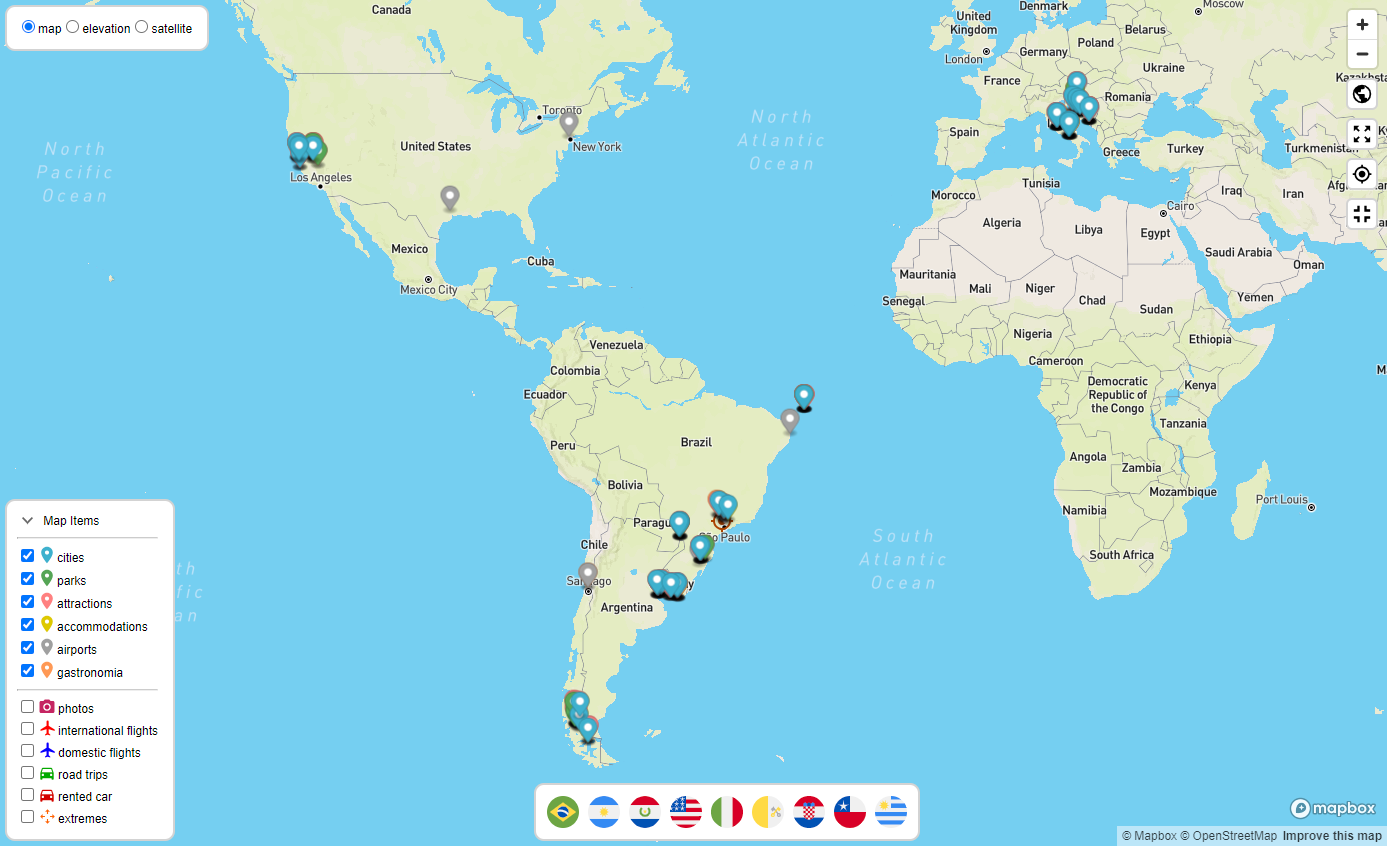
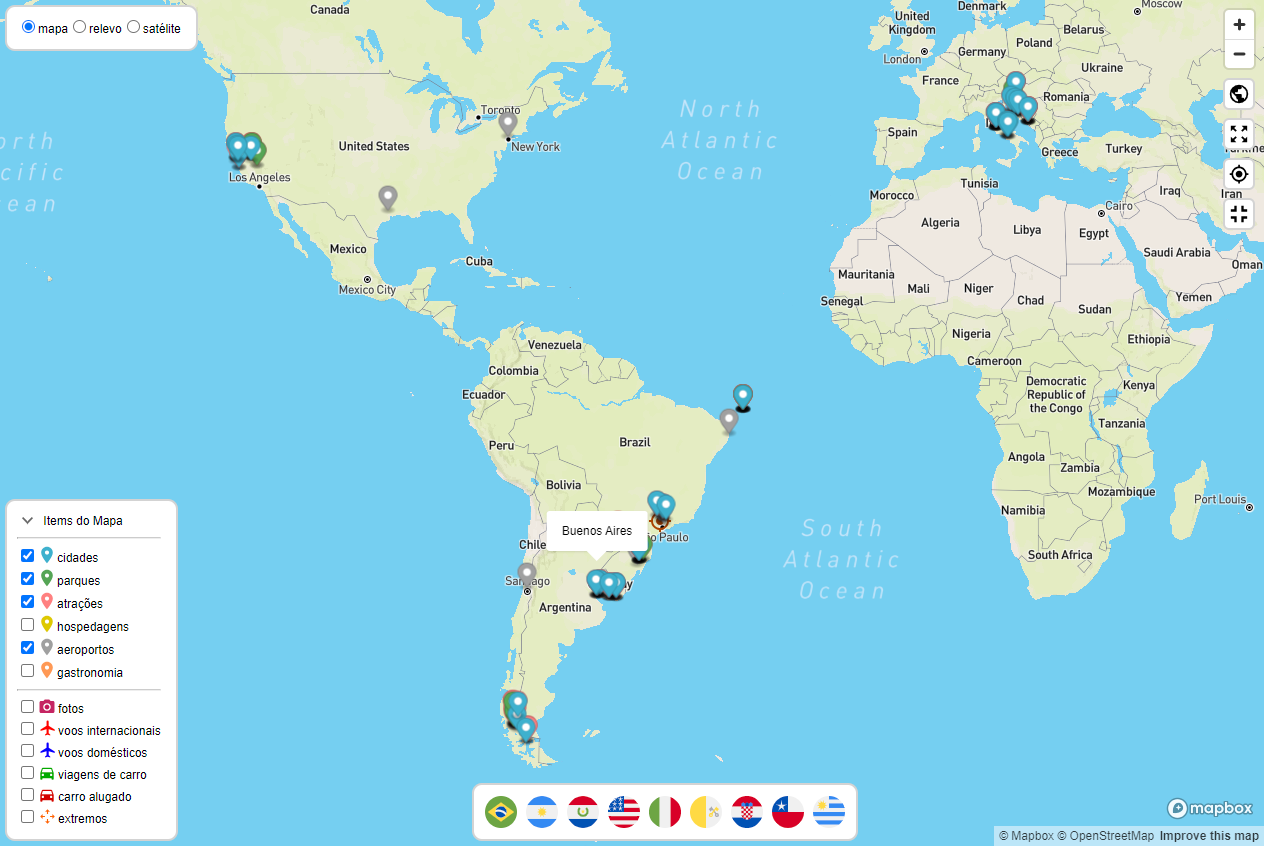
Updated README.md

diff --git a/README.md b/README.md
@@ -1,11 +1,38 @@
-## Nós Dois Viajando
+# Nós Dois Viajando
 
-This website integrates two others:
+This is the code repository for the [Nós Dois Viajando](https://nos2viajando.net) website.
 
-- [TravelMap](https://travelmap.net/): Integrate the [nos2viajando.travelmap.net](https://nos2viajando.travelmap.net/) personal travel blog through an iframe.
-- [Mapbox](https://www.mapbox.com/): Integrate maps using the [Mapbox GL JS API](https://docs.mapbox.com/mapbox-gl-js/api/). 
+The purpose of the site is to showcase the trips my wife and I have done together, with informartion for each of the countries and places we have visited. It was written in _**Python**_, _**Javascript**_, _**HTML**_ and _**CSS**_, and integrates two others:
 
-#### About the icons
+- [TravelMap](https://travelmap.net/): Integrate the [nos2viajando.travelmap.net](https://nos2viajando.travelmap.net/) personal travel blog through an iframe. This blog is available only for friends and family through a password, so they can follow our itinerary while we are traveling and see the past trips.
+- [Mapbox](https://www.mapbox.com/): Integrate maps using the [Mapbox GL JS API](https://docs.mapbox.com/mapbox-gl-js/api/). In the left panel there is a small map with markers for the places visited. Clicking on any of the country flags below it, or on any item on the list of places, zoom in the map to the correspondent location.
+
+<br>
+
+[![Nós Dois Viajando](https://github.com/HaraldoFilho/nos2viajando.net/blob/master/img/site.png)](https://nos2viajando.net/)
+
+## The Fullscreen Map
+
+Clicking on the fullscreen icon on the small map of the left panel opens a fullscreen map where it is possible to see more information about the trips. There are different selectors where it is possible to change the map appearance, such as alternating from map to satellite view, different zoom levels, such as the entire world or an especific country, and filter the information displayed on the map, such as the markers for each place visited, the flight routes or the photos taken on each place.
+
+<br>
+
+[![Nós Dois Viajando](https://github.com/HaraldoFilho/nos2viajando.net/blob/master/img/map.png)](https://nos2viajando.net/)
+_Map with zoom level fitted to the places visited_
+
+<br>
+
+[![Nós Dois Viajando](https://github.com/HaraldoFilho/nos2viajando.net/blob/master/img/flights.png)](https://nos2viajando.net/)
+_Map in satellite view, with zoom level showing the entire world and displaying the flight routes_
+
+<br>
+
+[![Nós Dois Viajando](https://github.com/HaraldoFilho/nos2viajando.net/blob/master/img/photos.png)](https://nos2viajando.net/)
+_Map showing the photos taken on each place_
+
+<br><br>
+
+### About the icons
 
 The rounded country flag icons were made by [FreePik](https://www.flaticon.com/authors/freepik) from [www.flaticon.com](https://www.flaticon.com/) and used according to its [Terms of Use](https://www.freepikcompany.com/legal#nav-flaticon). They are available at the [Countrys Flags Icon Pack](https://www.flaticon.com/packs/countrys-flags).
 
